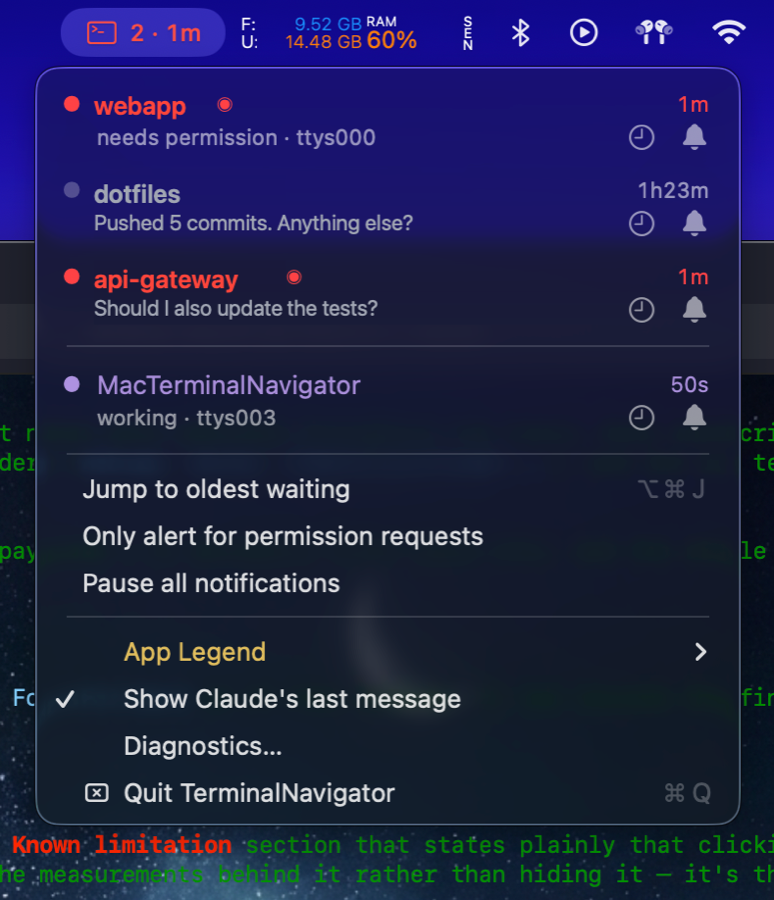
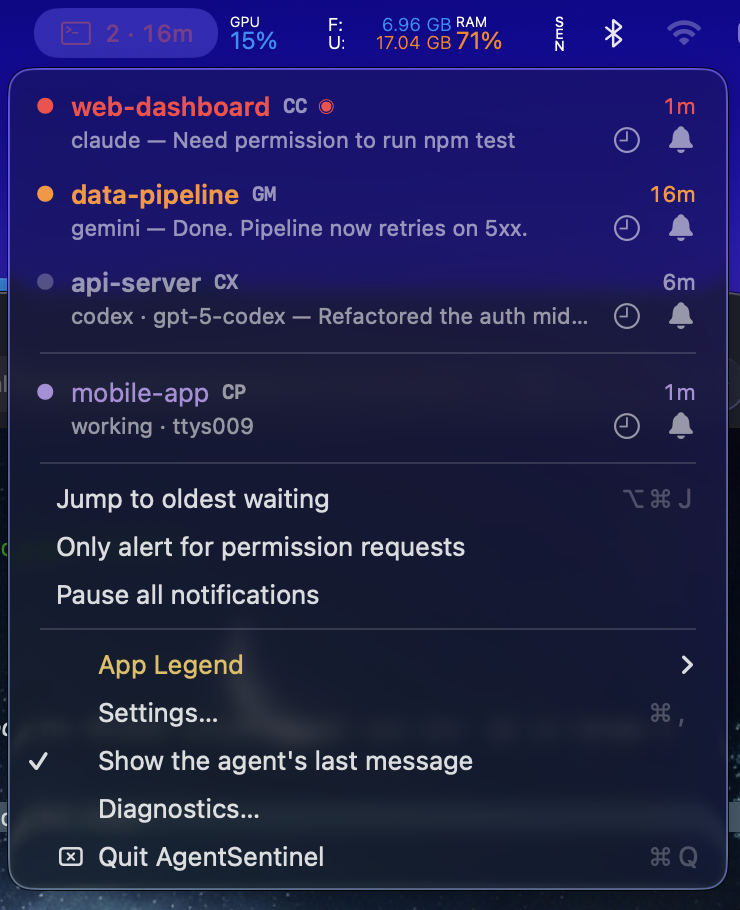
README: screenshots from 2.0 showing all four agents and the tag legend
Both images were ClaudeBar 1.x captures with no agent tags. Retaken against a
fixture state dir with one session per agent, so the menu shows the CC/GM/CX/CP
tags and the legend shows the new agent-tag group. Alt text updated to match.

diff --git a/README.md b/README.md
@@ -9,12 +9,12 @@ Run four agents in six tabs and the hard part stops being the work — it's noti
 them has been sitting on a permission prompt for ten minutes while you watched a different one
 think. This puts that in the menu bar.
 
-<img src="docs/screenshot.png" alt="AgentSentinel's menu: two tabs needing attention in red, one already-opened in grey, and one still working in purple" width="430">
+<img src="docs/screenshot.png" alt="AgentSentinel's menu: a Claude Code tab waiting on permission in red, a Gemini CLI tab that finished its turn in orange, a Codex tab already opened in grey, and a Copilot CLI tab still working in purple" width="400">
 
 Colour answers *have you dealt with this*, not *what is it doing* — and the menu explains
 itself, so nobody has to memorise it:
 
-<img src="docs/legend.png" alt="The App Legend submenu, listing every colour and marker with its meaning" width="470">
+<img src="docs/legend.png" alt="The App Legend submenu: the colour of each row, the menu bar icon states, the two-letter agent tags, and the row buttons" width="470">
 
 In short:
 
